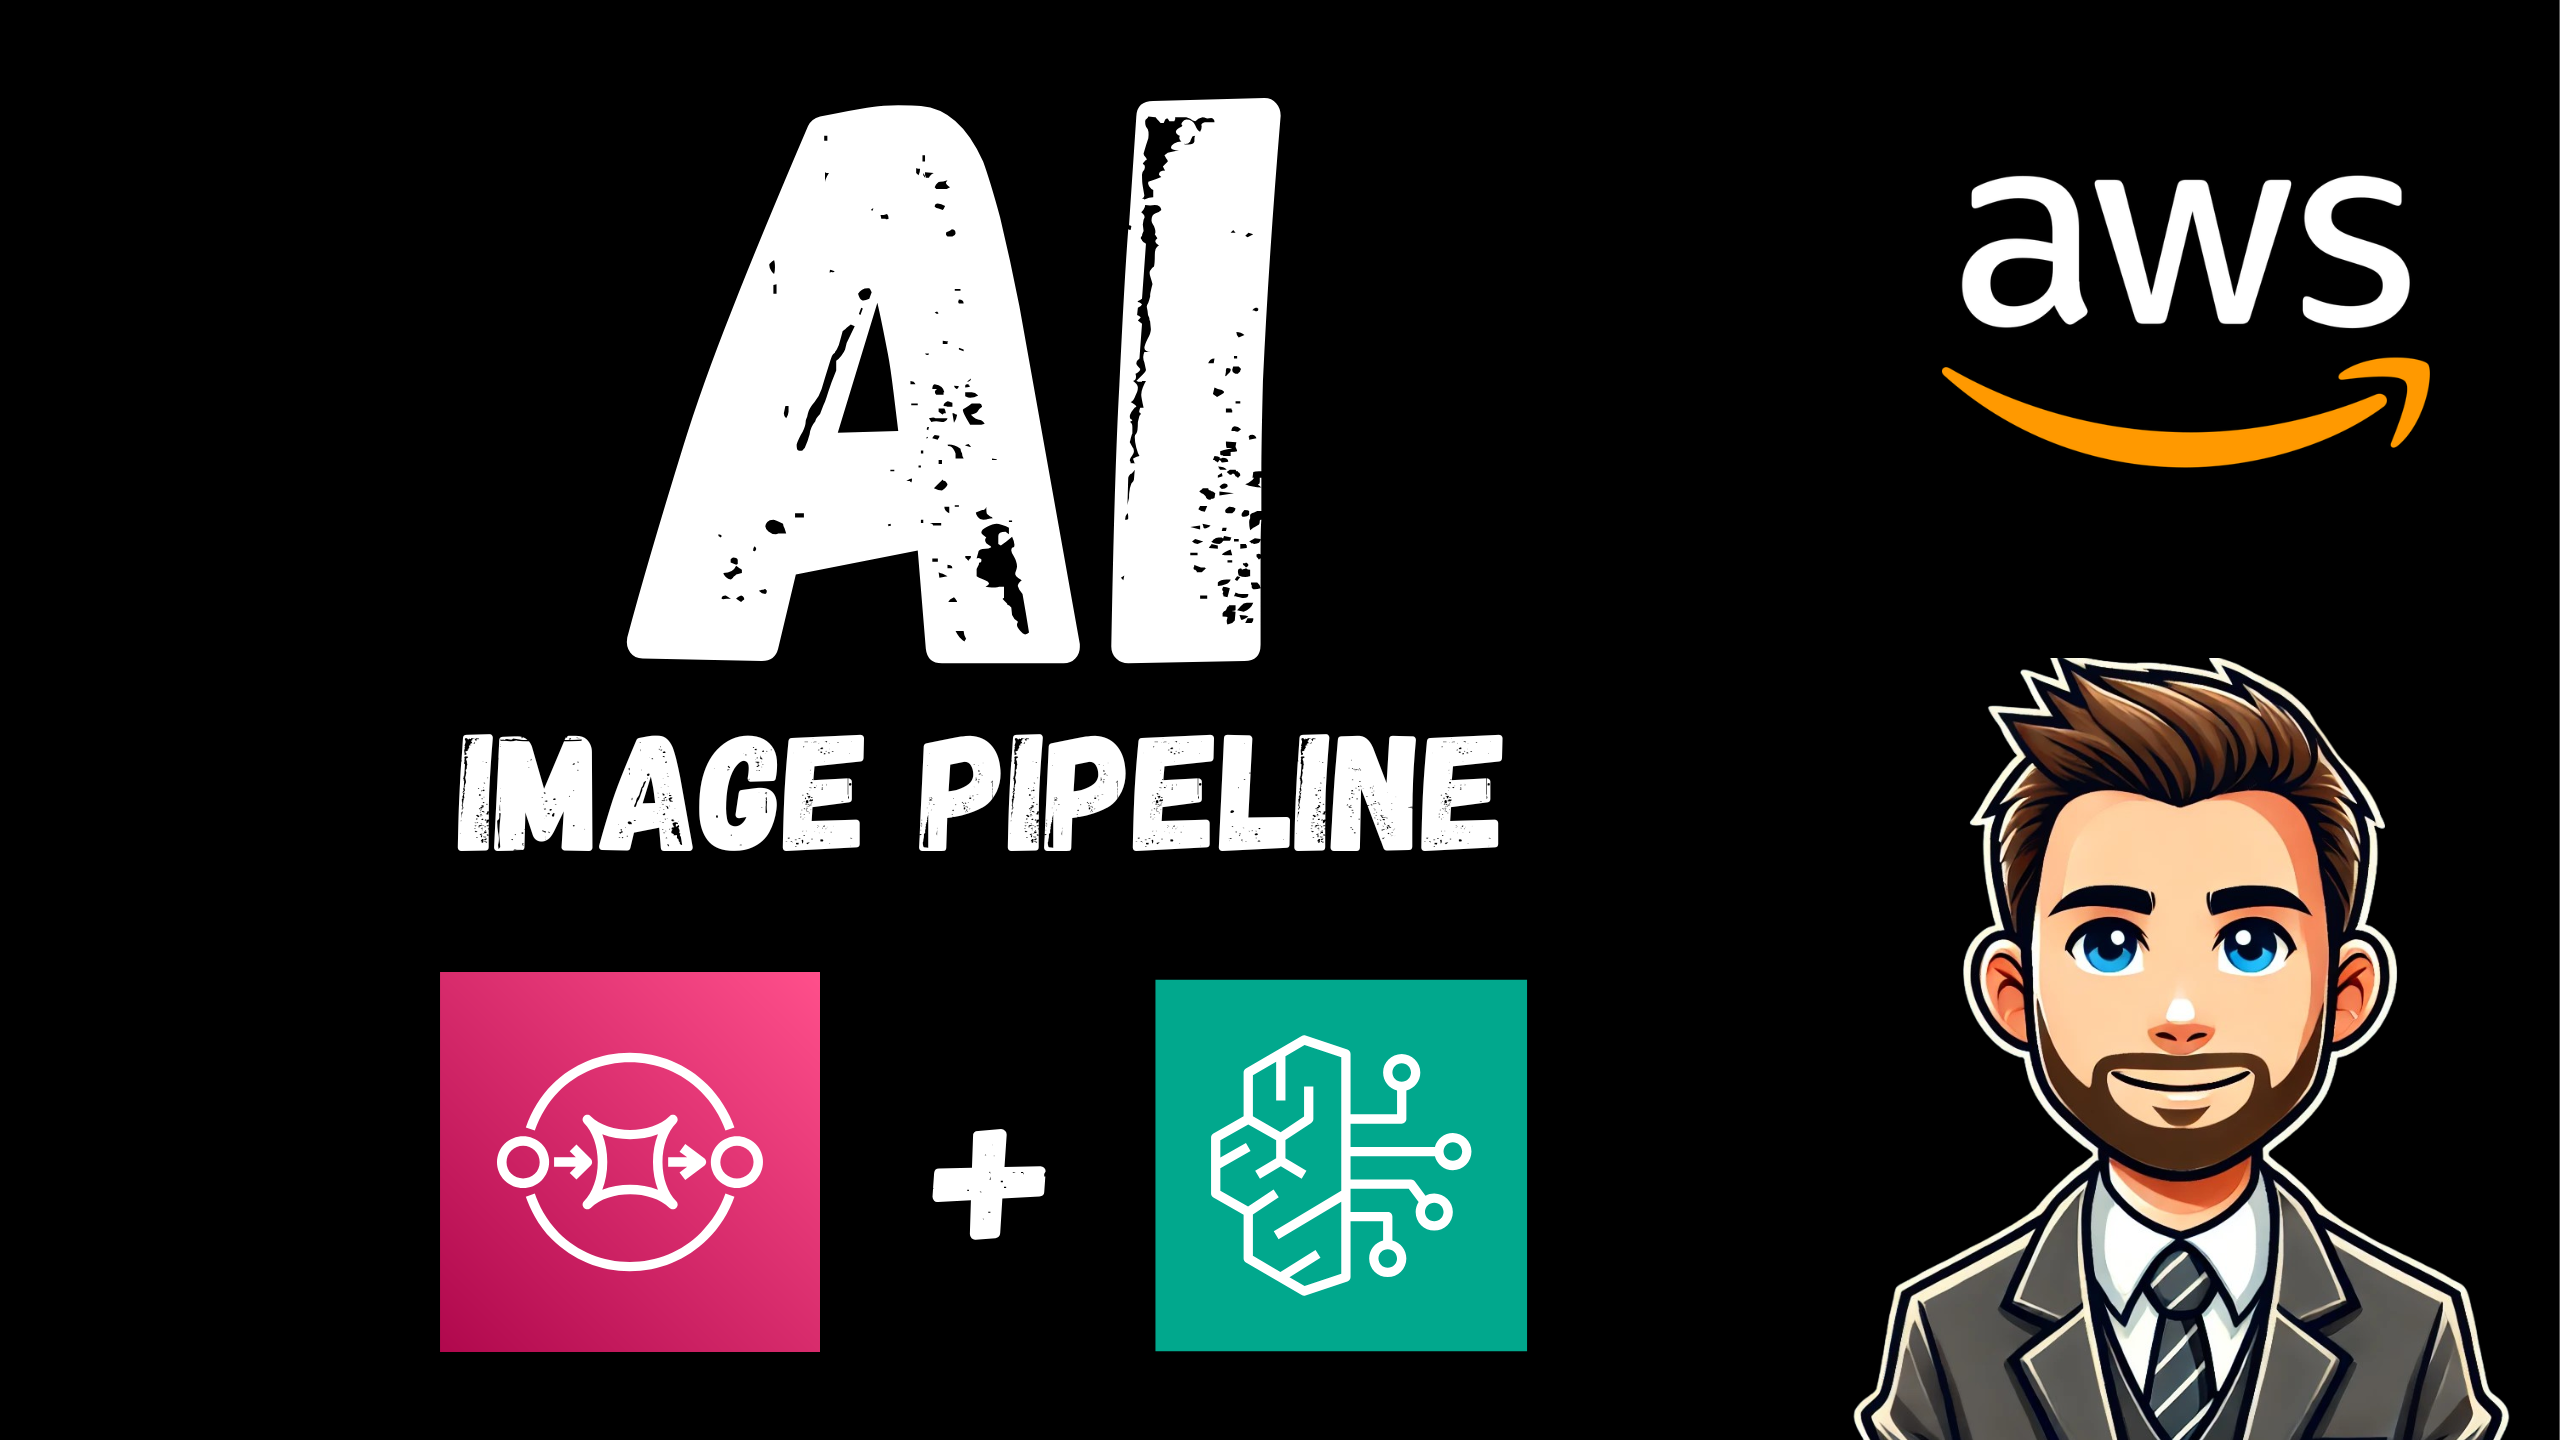
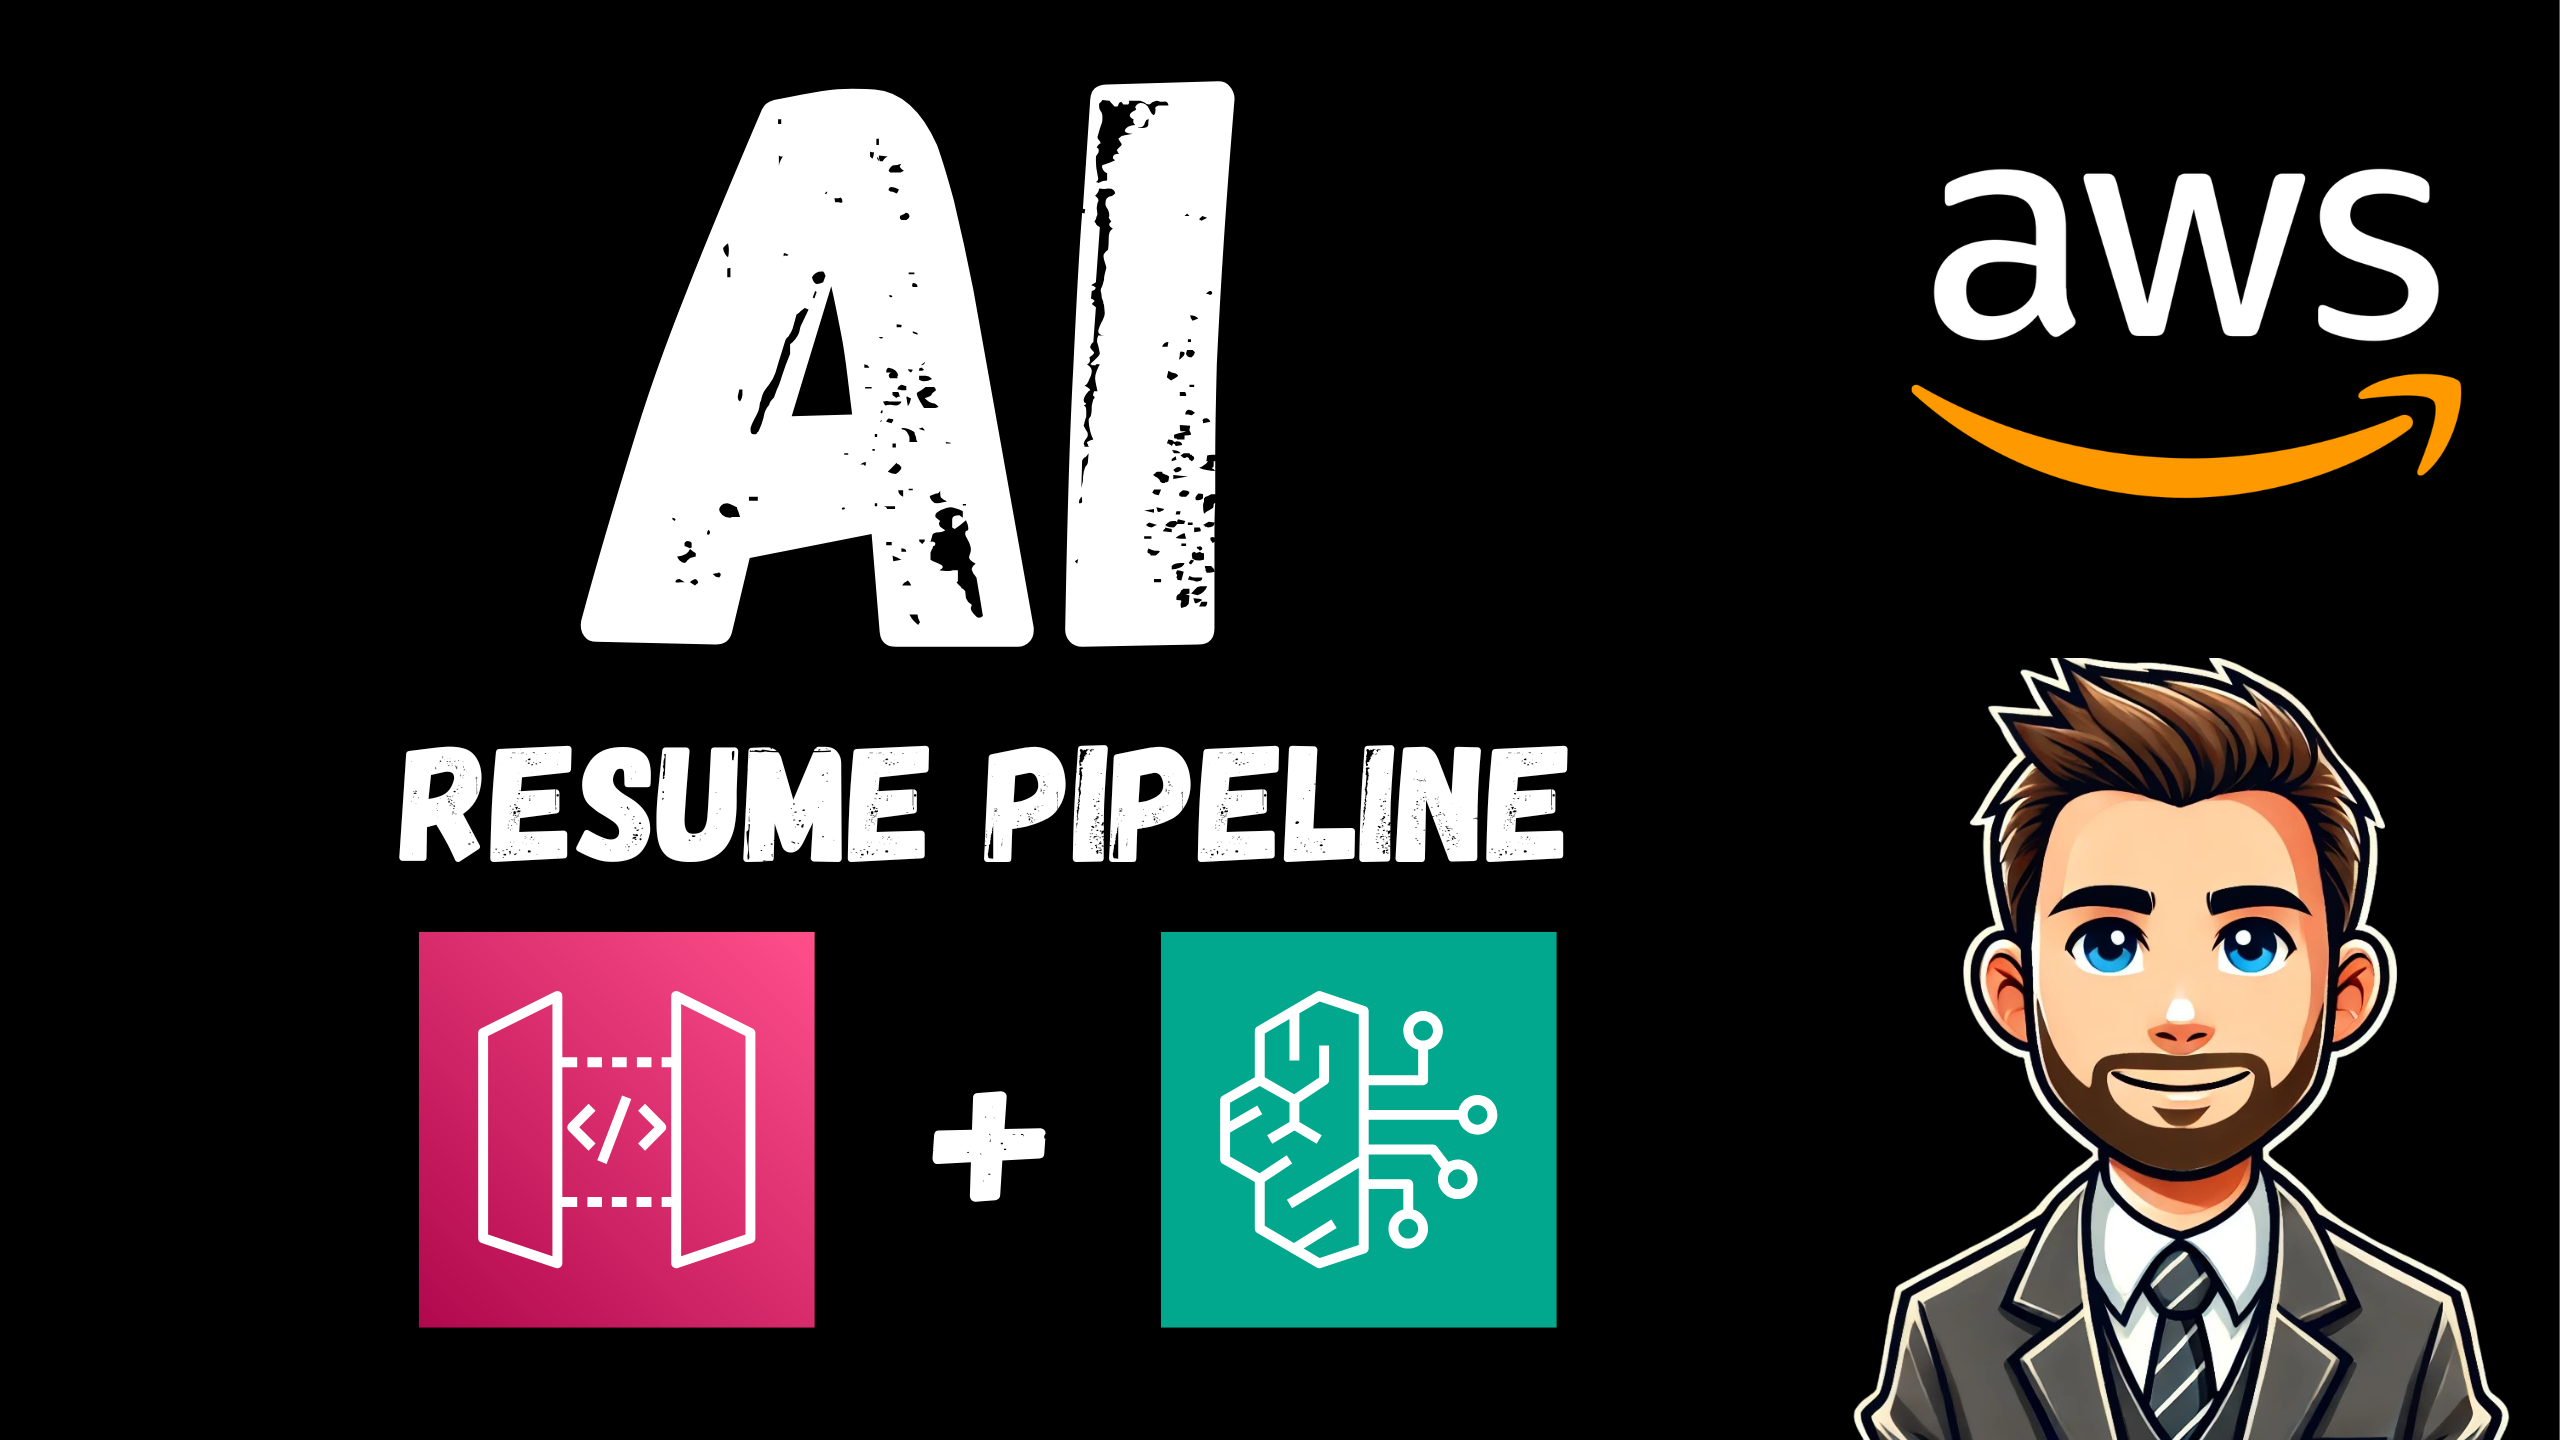
finalize video

diff --git a/00-resources/video-script.md b/00-resources/video-script.md
@@ -30,43 +30,47 @@ Follow along and build a complete serverless AI app on AWS using Bedrock, Lambda
 
 [ Diagram then Congito ]
 
-"First, the user signs into the web application using Cognito."
+First, the user signs in to the web application using Cognito.
 
-[ Choose File then Diagam ]
+[ Manage Resumes Dialog ]
 
-"When the user selects “Choose File”, the image is uploaded to an S3 bucket."
+Before scoring any jobs, you upload your resume.
 
-[  Cartoonify ]
+[ Upload Flow ]
 
-When the user selects “Cartoonify”, the API does two things:
+The resume is stored in the application’s S3 bucket.
+
+[  Score Dialog ]
+
+Now you can submit a job for scoring — either by URL or raw text.
 
 [ Highlight Dynamo DB]
 
-It creates a job record in DynamoDB
+When you click Submit, a job record is created in DynamoDB
 
 [ Highlight SQS queue ]
 
-Then it sends a message to the image processing SQS queue.
+At the same time, a message is sent to the scoring queue.
 
 [ Highlight Lambda ]
 
-"SQS triggers the worker Lambda."
+That queue triggers the worker Lambda.
 
 [ Show bedrock ]
 
-"The worker Lambda calls Bedrock to generate the cartoon."
+The worker calls Bedrock to extract the job details and score the resume.
 
 [ Show S3 Media Bucket]
 
-"The generated image is written back to S3".
+The scoring results and analysis are written back to S3.
 
 [ Final Dynamo DB State]
 
-When processing completes, the job status is updated in DynamoDB.
+The job status is updated in DynamoDB.
 
 [ Show final result ]
 
-The web application refreshes and displays the generated image.
+The application refreshes and displays the completed results.
 
 ---
 
@@ -74,51 +78,47 @@ The web application refreshes and displays the generated image.
 
 [ Show Buckets ]
 
-Three storage buckets are created for this project.
+Two S3 buckets are created for this project.
 
 [ Web Bucket ]
 
-The first bucket hosts the public web application.
+The first hosts the public web application.
 
 [ Media Bucket]
 
-The second bucket stores the uploaded source images and generated cartoons.
-
-[ CLoud Functions Bucket ]
-
-The third bucket stores the Cloud Functions source code.
+The second stores résumé  and scoring results.
 
 [ Show Identity ]
 
-Identity and access are handled by Google Identity Platform and API Gateway.
+Authentication is handled by Cognito and enforced by API Gateway.
 
-[Show Cloud Functions] 
+[Show Lambda Functions] 
 
-The serverless API is implemented with Python Cloud Functions.
+The API is implemented with Python Lambda functions.
 
-[ Pub/Sub]
+[ SQS ]
 
-The image generation pipeline is driven by a Pub Sub topic.
+Job scoring is driven by an SQS queue.
 
 [ Fire Store ]
 
-Firestore stores the status of each image generation job.
+DynamoDB tracks the state of each scoring job.
 
 [ Show Worker Function ]
 
-When a message is processed, the worker function calls Vertex AI to generate the cartoon image.
+When a message is received, the worker Lambda calls Bedrock to extract and score the job.
 
 [ Show Media Bucket ]
 
-The generated image is written back to the media bucket.
+The results are written back to S3.
 
-[ Show Firestore completion record]
+[ Show DynamoDB completion record]
 
-The Firestore job record is updated to complete.
+The job status is updated to “scored”.
 
 [ Show Web Application ]
 
-When the application refreshes, the generated results are displayed.
+The application refreshes and displays the results.
 
 ---
 
@@ -132,27 +132,42 @@ When the application refreshes, the generated results are displayed.
 
 "Sign in using Cognito."
 
-[ Choose File ]
+[ Choose Manage Resumes button ]
 
-"Once signed in, select “Choose File” and upload a test image."
+Once signed in, open Manage Resumes
 
-[ Pencil Sketch]
+[ Show Manage Resume Dialog ]
 
-"Select the “Pencil Sketch” style, then click “Cartoonify” to start the image generation pipeline."
+Paste your resume and click Create Resume.
 
-[ Show Life Cycle ]
+[ Select Score New Job button]
 
-"The application displays the image generation lifecycle."
+Now select Score New Job.
+
+[ Show Score New Job Dialog ]
+
+Choose LinkedIn as the source and enter one or more job IDs.
+
+[ Show Submit Button ]
+
+Click Submit to start scoring.
+
+[ Show Status ]
+
+The dashboard updates as jobs move from submitted to scoring.
+
+All jobs are tracked here with their current status and scores.
 
 [ Show Results ]
 
-"When processing completes, the application refreshes and shows the result."
+Click Open to view the full analysis.
 
-[ Show Styles ]
+[ Show bad job ]
 
-"Now try some different styles. 
+This one’s clearly not a good fit. 
 
-[ Show Gallery ]
-The application displays a gallery of your previous results."
+[Show better job ]
+
+Now here’s a role that aligns much better.
 
 ---

diff --git a/00-resources/VIDEO.md b/00-resources/VIDEO.md
@@ -1,41 +1,40 @@
 #AWS #Serverless #AWSLambda #Bedrock #SQS #DynamoDB #APIGateway #Cognito #Terraform #Python #GenerativeAI
 
-*Build an AI Image Pipeline on AWS (Bedrock + Lambda + SQS)*
+*Build an AI Resume Scorer on AWS (Bedrock + Lambda + SQS)*
 
-Turn any photo into a cartoon using a fully serverless, event-driven pipeline on AWS — provisioned with Terraform and deployed with a single script. Users sign in with Cognito, upload a photo, pick a cartoon style, and a queue-driven worker invokes Amazon Bedrock's Stability image model to generate a stylized result. Originals and cartoons are stored privately in S3 and served through short-lived presigned URLs.
+Score any resume against a job posting using a fully serverless, event-driven pipeline on AWS — provisioned with Terraform and deployed with a single script. Users sign in with Cognito, upload a resume, paste a job URL or description, and a queue-driven worker invokes Amazon Bedrock's Claude Haiku model to extract job metadata and return a 0–100 compatibility score with a written Strengths and Weaknesses analysis.
 
-In this project we build an asynchronous AI image-processing pipeline from scratch — the browser uploads directly to S3, SQS decouples the slow Bedrock inference call from the API response, and a container-image Lambda running Pillow normalizes the photo before sending it to Bedrock. The whole thing runs without a single EC2 instance.
+In this project we build an asynchronous AI scoring pipeline from scratch — the API returns immediately with a submitted status, SQS decouples the slow Bedrock inference call from the API response, and a worker Lambda handles URL fetching, HTML parsing, and two sequential Bedrock calls. The whole thing runs without a single EC2 instance.
 
 WHAT YOU'LL LEARN
-• Invoking Amazon Bedrock image models (Stability stable-image-control-structure-v1:0) from Lambda
+• Invoking Amazon Bedrock text models (Claude Haiku) from Lambda for multi-step AI pipelines
 • Using SQS to decouple a slow AI inference call from a synchronous API response
-• Running a container-image Lambda (ECR) with Pillow for image normalization
+• Fetching and parsing job posting HTML with BeautifulSoup before sending to Bedrock
 • Implementing PKCE OAuth2 Authorization Code flow with Cognito in a static SPA
 • Attaching a JWT authorizer to API Gateway HTTP API v2
-• Generating presigned S3 POST URLs with content-type and size enforcement
-• Enforcing per-user daily quotas with a DynamoDB range query — no GSI required
-• Proactive JWT token refresh using the Cognito /oauth2/token endpoint
+• Single-table DynamoDB design with composite keys for per-user data isolation
+• Storing and retrieving user content (resumes, analyses, notes) from private S3 paths
+• Parameterizing a Bedrock model via bedrock-config.sh for easy model swapping
 
 INFRASTRUCTURE DEPLOYED
 • Cognito User Pool with Hosted UI domain and SPA app client (PKCE, no secret)
-• API Gateway HTTP API v2 with JWT authorizer (validates against Cognito JWKS)
-• Five zip-packaged API Lambdas (Python 3.11): upload-url, submit, result, history, delete
-• Worker Lambda (container image from ECR, 2048 MB, 120 s timeout) triggered by SQS
-• SQS queue (cartoonify-jobs, visibility timeout 180 s, batch size 1)
-• DynamoDB table (PAY_PER_REQUEST, PK=owner, SK=job_id time-sortable, 7-day TTL)
-• S3 web bucket (public SPA hosting) + S3 media bucket (private, 7-day lifecycle)
-• ECR repository for the worker container image
-• IAM roles scoped per Lambda — API role cannot invoke Bedrock; worker role cannot delete
+• API Gateway HTTP API with JWT authorizer (validates against Cognito JWKS)
+• API Lambda (Python 3.11, handler.py): routes /resumes and /jobs endpoint families
+• Worker Lambda (Python 3.11, worker.py, 512 MB, 300 s timeout) triggered by SQS
+• SQS queue (job-requests, visibility timeout 1800 s) + dead-letter queue
+• DynamoDB table (PAY_PER_REQUEST, PK=USER#<id>, SK=RESUME#<id> or JOB#<id>)
+• S3 frontend bucket (public SPA hosting) + S3 backend bucket (private, SSE-AES256)
+• IAM roles with least-privilege access to DynamoDB, S3, SQS, Bedrock, and CloudWatch
 
 GitHub
-https://github.com/mamonaco1973/aws-cartoonify
+https://github.com/mamonaco1973/aws-resume-app
 
 README
-https://github.com/mamonaco1973/aws-cartoonify/blob/main/README.md
+https://github.com/mamonaco1973/aws-resume-app/blob/main/README.md
 
 TIMESTAMPS
 00:00 Introduction
-00:14 Architecture
-00:49 Build the Code
-01:05 Build Results
-01:49 Demo
+00:21 Architecture
+00:59 Build the Code
+01:16 Build Results
+01:52 Demo
